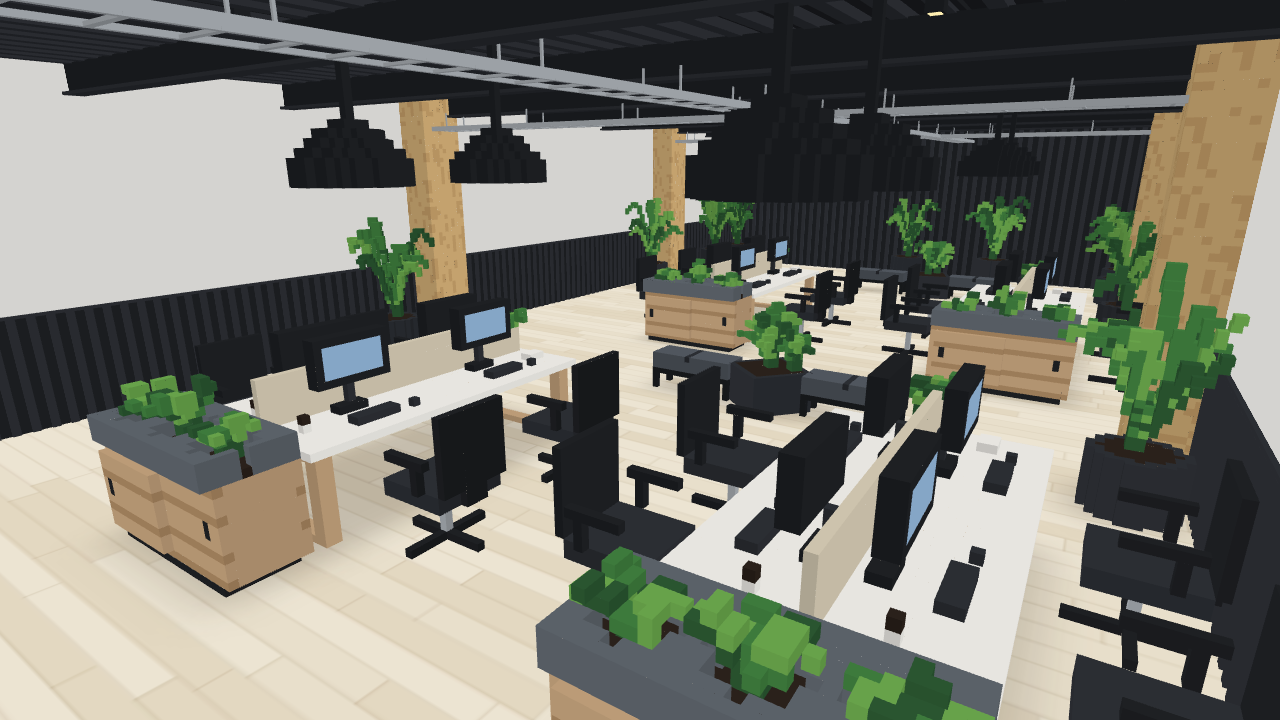
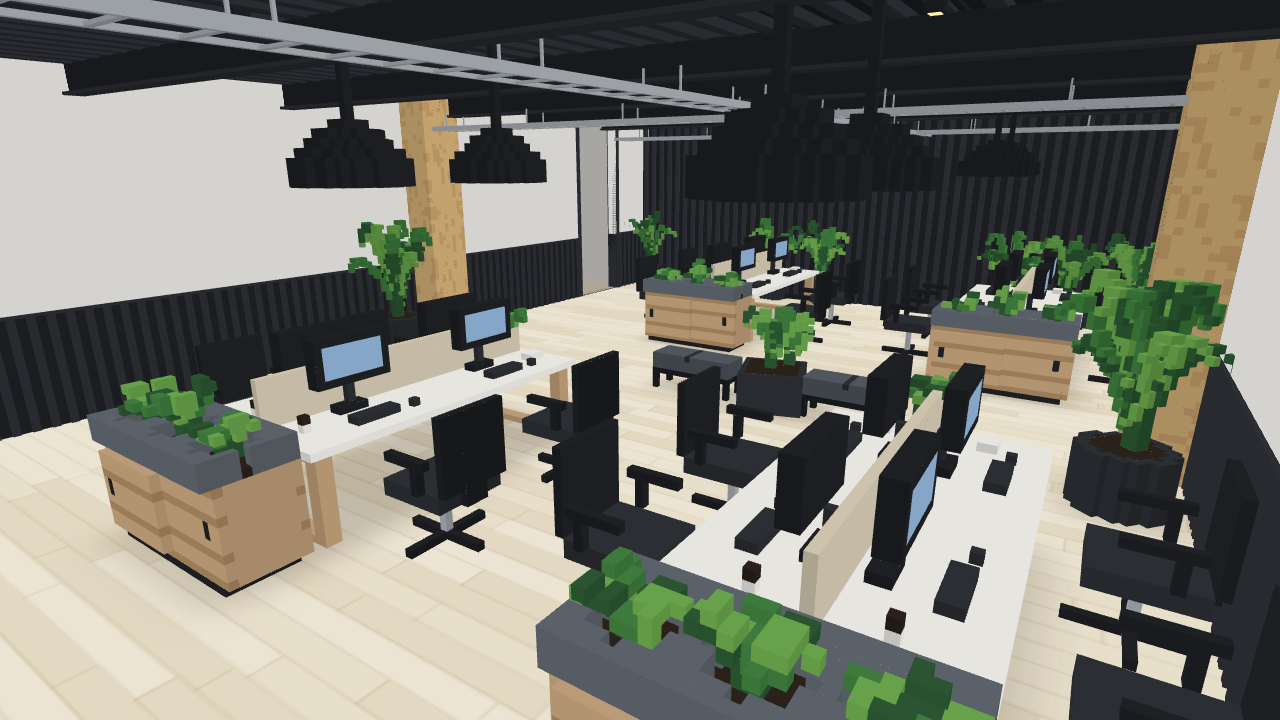
fix(office): pared del fondo pegada a las mesas, plantas detrás de las islas del fondo y hueco a otra sala en la pared izquierda
- Salón de 20 a 15,5 m: la pared acanalada queda 1,2 m detrás de las últimas mesas (paso de
  ~0,7 m para los de las sillas contra la pared derecha + plantitas pegadas a la pared).
- 2 plantas medianas detrás de cada isla del fondo; las del rincón del fondo un poco más chicas.
- Hueco de piso a techo (1,25 m, jambas y dintel) en la pared izquierda donde terminan las
  mesas, con un indicio en penumbra de la otra sala. SIDE_DOOR exportado; es solo visual.
- El segundo descanso del pasillo pasa entre la entrada y las primeras islas (siguen 8 lugares).
- Vistas de cámara y test de deslizamiento por la pared adaptados al salón más corto.

diff --git a/office/src/layout.ts b/office/src/layout.ts
@@ -33,13 +33,20 @@ const LEFT_ZC = RIGHT_ZC - DESK_DEPTH - DESK_GAP;   // -1,0: islas de la izquier
  * caminar entre los respaldos de las sillas del lado del pasillo (las sillas ocupan el resto de los 2,6 m).
  */
 export const ROOM = {
-  length: 20, width: 9.6, height: 3.6,
+  // largo: la pared acanalada queda 1,2 m detrás de las últimas mesas: plantitas contra la pared y ~0,75 m de paso detrás de la
+  // mesa (sin ese paso, los de las sillas contra la pared derecha quedarían encerrados)
+  length: 15.5, width: 9.6, height: 3.6,
   aisleZ: (RIGHT_ZC - DESK_DEPTH / 2 + LEFT_ZC + DESK_DEPTH / 2) / 2,
   aisleHalf: 0.45,
   deskGap: DESK_GAP,
 } as const;
 /** La puerta de entrada (pared x = 0): va de z = -DOOR.halfWidth a +halfWidth. `inX` = umbral de adentro, `outX` = afuera (ahí aparecen/desaparecen), `laneZ` = por dónde cruzan. */
 export const DOOR = { halfWidth: 1.0, inX: 0.45, outX: -0.5, laneZ: 0.55 } as const;
+/**
+ * Hueco de piso a techo en la pared IZQUIERDA (z = -width/2), donde terminan las mesas: separación hacia otra sala. Es solo visual:
+ * nadie sale por ahí (los personajes y el recorrido llegan como mucho al umbral, `inZ`). Va de x0 a x1, con jambas.
+ */
+export const SIDE_DOOR = { x0: 13.2, x1: 14.45, wallZ: -4.8, inZ: -4.8 + 0.45 } as const;
 /** Altura del asiento de las sillas y los bancos. */
 export const SEAT_HEIGHT = 0.46;
 /** Lo único que puede estar dentro de la franja del pasillo. */
@@ -49,8 +56,9 @@ const DESK_LEN = 2.8;      // largo de la isla (a lo largo del salón): 2 puesto
 const CHAIR_OFF = 0.55;    // del borde de la mesa al centro de la silla
 const ISLAND_X0 = [4.5, 11.5];
 const CAB_DEPTH = 0.6;     // mueble de plantas (a lo largo de x)
-const COLUMN_X = [2.6, 9.4, 16.2];
-const LOUNGE_X = [9.15, 17.2];
+const COLUMN_X = [2.6, 9.4];
+/** Descansos del pasillo: uno entre la entrada y las primeras islas, otro entre las dos filas de islas. */
+const LOUNGE_X = [2.2, 9.15];
 
 export interface OfficeLayout {
   room: typeof ROOM;
@@ -118,18 +126,24 @@ export function officeLayout(): OfficeLayout {
     }
   }
 
-  // Plantas medianas en las 4 esquinas, pegadas al rincón (no tapan columnas ni el fondo acanalado).
-  for (const x of [0.4, ROOM.length - 0.4]) for (const wall of [-1, 1]) {
-    props.push({ kind: 'plant', x, z: wall * (ROOM.width / 2 - 0.4), w: 0.6, d: 0.6, rot: 0, size: 0.8 });
+  // Plantas medianas en las 4 esquinas, pegadas al rincón (no tapan columnas, el fondo acanalado ni el hueco de la pared izquierda).
+  for (const wall of [-1, 1]) {
+    props.push({ kind: 'plant', x: 0.4, z: wall * (ROOM.width / 2 - 0.4), w: 0.6, d: 0.6, rot: 0, size: 0.8 });
+    // las del fondo, un poco más chicas: no tapan el paso de atrás de las mesas
+    props.push({ kind: 'plant', x: ROOM.length - 0.27, z: wall * (ROOM.width / 2 - 0.35), w: 0.5, d: 0.5, rot: 0, size: 0.6 });
+  }
+  // Plantas medianas en la franja de atrás de las islas del fondo, contra la pared acanalada (2 por isla).
+  // Van pegadas a la pared para dejar el paso entre la punta de la mesa y las macetas.
+  const backX = ROOM.length - 0.25;
+  for (const isl of islands.filter(i => i.x0 === ISLAND_X0[ISLAND_X0.length - 1])) {
+    for (const dz of [-0.45, 0.45]) props.push({ kind: 'plant', x: backX, z: isl.zc + dz, w: 0.4, d: 0.4, rot: 0, size: 0.5 });
   }
 
   // Muchas plantas: entre columnas, contra las paredes (fuera del pasillo).
-  const wallPlants: Array<[number, number]> = [[8.4, 0.75], [15.3, 0.8], [18.2, 0.8]];
+  const wallPlants: Array<[number, number]> = [[8.4, 0.75]];
   for (const [x, size] of wallPlants) for (const wall of [-1, 1]) {
     props.push({ kind: 'plant', x, z: wall * (ROOM.width / 2 - 0.45), w: 0.6, d: 0.6, rot: 0, size });
   }
-  // dos más en el centro del pasillo, al fondo, junto a la pared acanalada
-  props.push({ kind: 'plant', x: 19.4, z: ROOM.aisleZ - 0.9, w: 0.6, d: 0.6, rot: 0, size: 0.8 }, { kind: 'plant', x: 19.4, z: ROOM.aisleZ + 0.9, w: 0.6, d: 0.6, rot: 0, size: 0.9 });
 
   return { room: ROOM, islands, seats, extraSeats, props, lamps };
 }

diff --git a/office/src/room.ts b/office/src/room.ts
@@ -3,7 +3,7 @@
 // tiempo real) + el piso de madera clara mate aparte (textura con tablones). Total: 2 draw calls para todo el salón.
 import * as THREE from 'three';
 import { mergeGeometries } from 'three/examples/jsm/utils/BufferGeometryUtils.js';
-import { officeLayout, ROOM, type OfficeLayout, type Seat } from './layout';
+import { officeLayout, ROOM, SIDE_DOOR, type OfficeLayout, type Seat } from './layout';
 import { hash3 } from '../vendor/kit3d';
 import {
   PAL, benchGeometry, cabinetGeometry, chairGeometry, columnGeometry, deskGeometry, lampGeometry, planterGeometry,
@@ -60,14 +60,34 @@ function shellParts(L: OfficeLayout): THREE.BufferGeometry[] {
   const out: THREE.BufferGeometry[] = [];
   const add = (...a: Parameters<typeof boxGeo>) => out.push(boxGeo(...a));
 
-  // paredes laterales: blancas arriba, zócalo negro acanalado abajo
+  // paredes laterales: blancas arriba, zócalo negro acanalado abajo. La izquierda (z < 0) tiene el hueco a la otra sala.
+  const gaps = (s: number): Array<[number, number]> => s < 0 ? [[0, SIDE_DOOR.x0], [SIDE_DOOR.x1, X]] : [[0, X]];
   for (const s of [-1, 1]) {
     const z0 = s < 0 ? -hw - T : hw, z1 = s < 0 ? -hw : hw + T;
-    add(0, ZOC, z0, X, H, z1, PAL.wall, { shade: FLAT });
-    add(0, 0, z0, X, ZOC, z1, PAL.black, { shade: FLAT });
     const zi = s < 0 ? -hw : hw - 0.03;
-    for (let x = 0.1; x < X; x += 0.16) add(x, 0, zi, x + 0.07, ZOC, zi + 0.03, PAL.black2, { shade: FLAT });
-    add(0, ZOC, zi, X, ZOC + 0.03, zi + 0.03, PAL.black2, { shade: FLAT });
+    for (const [a, b] of gaps(s)) {
+      add(a, ZOC, z0, b, H, z1, PAL.wall, { shade: FLAT });
+      add(a, 0, z0, b, ZOC, z1, PAL.black, { shade: FLAT });
+      for (let x = a + 0.1; x < b - 0.07; x += 0.16) add(x, 0, zi, x + 0.07, ZOC, zi + 0.03, PAL.black2, { shade: FLAT });
+      add(a, ZOC, zi, b, ZOC + 0.03, zi + 0.03, PAL.black2, { shade: FLAT });
+    }
+  }
+  // hueco de piso a techo en la pared izquierda: jambas y dintel de chapa negra
+  {
+    const { x0, x1 } = SIDE_DOOR, zw = -hw;
+    add(x0 - 0.06, 0, zw - T - 0.02, x0, H, zw + 0.04, PAL.black2, { shade: FLAT });
+    add(x1, 0, zw - T - 0.02, x1 + 0.06, H, zw + 0.04, PAL.black2, { shade: FLAT });
+    add(x0 - 0.06, H - 0.12, zw - T - 0.02, x1 + 0.06, H, zw + 0.04, PAL.black2, { shade: FLAT });
+    // indicio de la otra sala: piso, paredes y techo más tenues (no se modela la sala entera)
+    const DIM = [0.55, 0.5, 0.62, 0.3, 0.55, 0.5];
+    const ox0 = x0 - 1.4, ox1 = x1 + 0.6, oz0 = zw - T - 2.6, oz1 = zw - T;
+    add(ox0, -0.05, oz0, ox1, 0, oz1, 0xd9cfba, { shade: DIM });                 // piso de madera en penumbra
+    add(ox0, 0, oz0 - T, ox1, H, oz0, PAL.wall, { shade: DIM });                 // pared de enfrente
+    add(ox0 - T, 0, oz0, ox0, H, oz1, PAL.wall, { shade: DIM });
+    add(ox1, 0, oz0, ox1 + T, H, oz1, PAL.wall, { shade: DIM });
+    add(ox0, 0, oz0, ox1, 0.12, oz0 + 0.03, PAL.black, { shade: DIM });         // zócalo
+    add(ox0 - T, H, oz0 - T, ox1 + T, H + 0.1, oz1, PAL.black, { shade: DIM });  // techo
+    add(x0 + 0.1, 0, oz0 + 0.03, x1 - 0.1, 0.9, oz0 + 0.5, PAL.wood, { shade: DIM });   // un mueble bajo al fondo
   }
   // pared de entrada (blanca con zócalo y una puerta de vidrio oscuro)
   add(-T, ZOC, -hw, 0, H, hw, PAL.wall, { shade: FLAT });
@@ -94,7 +114,7 @@ function shellParts(L: OfficeLayout): THREE.BufferGeometry[] {
     for (let u = a0 + 0.6; u < a1; u += 1.5) for (const v of [c - 0.17, c + 0.15]) b(u, TY + 0.06, v, u + 0.015, H - 0.32, v + 0.015);
   };
   tray(true, 0.2, X - 0.2, ROOM.aisleZ);   // bandeja principal sobre el pasillo
-  for (const x of [2.6, 9.4, 16.2]) tray(false, -hw + 0.2, hw - 0.2, x);
+  for (const x of [2.6, 9.4, X - 1.2]) tray(false, -hw + 0.2, hw - 0.2, x);
   // cables negros sobre la bandeja central
   add(0.2, TY + 0.015, ROOM.aisleZ - 0.08, X - 0.2, TY + 0.05, ROOM.aisleZ + 0.02, PAL.black2);
   // spots sobre dos rieles a lo largo del salón

diff --git a/office/src/layout.test.ts b/office/src/layout.test.ts
@@ -1,5 +1,5 @@
 import { describe, expect, it } from 'vitest';
-import { officeLayout, ROOM, AISLE_PROP_KINDS, type Prop } from './layout';
+import { officeLayout, ROOM, AISLE_PROP_KINDS, SIDE_DOOR, type Prop } from './layout';
 
 const L = officeLayout();
 const all = [...L.seats, ...L.extraSeats];
@@ -104,6 +104,41 @@ describe('layout de la oficina', () => {
       const near = L.props.filter(p => p.kind === 'plant' && Math.abs(p.x - cx) < 0.6 && Math.abs(p.z - sz * ROOM.width / 2) < 0.6);
       expect(near, `esquina ${cx},${sz}`).toHaveLength(1);
     }
+  });
+
+  it('back_wall_is_right_behind_the_last_desks', () => {
+    // como en las fotos: terminada la última isla, la pared acanalada está ahí. Franja de ≤ 1,25 m: plantitas contra la pared y
+    // un paso de ≥ 0,65 m entre la punta de la mesa y las macetas (por ahí salen los de las sillas contra la pared derecha)
+    const lastDesk = Math.max(...L.props.filter(p => p.kind === 'desk').map(p => p.x + p.w / 2));
+    expect(ROOM.length - lastDesk).toBeLessThanOrEqual(1.25);
+    const backPlants = L.props.filter(p => p.kind === 'plant' && p.x > lastDesk);
+    for (const p of backPlants) expect(p.x - p.w / 2 - lastDesk).toBeGreaterThanOrEqual(0.65);
+    // y nada queda fuera del salón
+    for (const p of L.props) expect(p.x + p.w / 2, p.kind).toBeLessThanOrEqual(ROOM.length + 1e-9);
+  });
+
+  it('plants_behind_the_back_islands', () => {
+    const back = L.islands.filter(i => i.x1 === Math.max(...L.islands.map(j => j.x1)));
+    expect(back).toHaveLength(2);
+    for (const isl of back) {
+      const behind = L.props.filter(p => p.kind === 'plant' && p.x > isl.x1 && Math.abs(p.z - isl.zc) <= isl.depth / 2);
+      expect(behind.length, `isla ${isl.id}`).toBeGreaterThanOrEqual(2);
+      for (const p of behind) expect(p.size ?? 1).toBeLessThanOrEqual(0.7);    // medianas, no grandes
+    }
+  });
+
+  it('side_door_on_left_wall_where_the_desks_end', () => {
+    const w = SIDE_DOOR.x1 - SIDE_DOOR.x0;
+    expect(w).toBeGreaterThanOrEqual(1.2);
+    expect(w).toBeLessThanOrEqual(1.5);
+    expect(SIDE_DOOR.wallZ).toBe(-ROOM.width / 2);
+    expect(SIDE_DOOR.x1).toBeLessThan(ROOM.length);
+    // empieza donde terminan las sillas de la izquierda
+    const leftChairs = L.props.filter(p => p.kind === 'chair' && p.z < ROOM.aisleZ);
+    expect(SIDE_DOOR.x0).toBeGreaterThanOrEqual(Math.max(...leftChairs.map(p => p.x)) - 0.6);
+    // y la pasada no está tapada: nada dentro de 0,8 m de la pared frente al hueco
+    const blocking = L.props.filter(p => p.x + p.w / 2 > SIDE_DOOR.x0 && p.x - p.w / 2 < SIDE_DOOR.x1 && p.z - p.d / 2 < SIDE_DOOR.wallZ + 0.8);
+    expect(blocking).toEqual([]);
   });
 
   it('seats_face_their_desk', () => {

diff --git a/office/src/camera.ts b/office/src/camera.ts
@@ -6,10 +6,10 @@ import { ROOM } from './layout';
 
 /** Vistas guardadas (posición y foco). `entrada` = como las fotos: desde la puerta mirando al fondo. */
 export const CAMERA_PRESETS = {
-  entrada: { pos: [0.4, 1.9, ROOM.aisleZ], target: [10, 0.9, ROOM.aisleZ] },
+  entrada: { pos: [0.3, 2.45, ROOM.aisleZ + 0.9], target: [ROOM.length / 2 + 2, 0.5, ROOM.aisleZ] },
   isla: { pos: [2.2, 2.6, 3.9], target: [7.5, 0.8, 0.4] },
-  fondo: { pos: [19.3, 2.9, -3.6], target: [10, 0.6, ROOM.aisleZ] },
-  alto: { pos: [0.5, 2.85, ROOM.aisleZ - 2.3], target: [9, 0, ROOM.aisleZ + 0.3] },
+  fondo: { pos: [ROOM.length - 0.4, 2.1, 3.9], target: [ROOM.length / 2 - 1, 0.8, -2.2] },
+  alto: { pos: [0.5, 2.85, ROOM.aisleZ - 2.3], target: [ROOM.length * 0.55, 0, ROOM.aisleZ + 0.3] },
 } as const satisfies Record<string, { pos: readonly number[]; target: readonly number[] }>;
 export type CameraPreset = keyof typeof CAMERA_PRESETS;
 

diff --git a/office/src/walk.test.ts b/office/src/walk.test.ts
@@ -45,7 +45,7 @@ describe('modo recorrido (primera persona)', () => {
 
   it('slides_along_wall', () => {
     // pegado a la pared de fondo, empujando en diagonal: no la atraviesa pero avanza de costado
-    const s0: PlayerState = { x: ROOM.length - 1, z: -2.6, yaw: yawTo(1, 1), pitch: 0 };
+    const s0: PlayerState = { x: ROOM.length - 1, z: -3.4, yaw: yawTo(1, 1), pitch: 0 };   // entre la planta del rincón y las del fondo
     expect(playerFree(s0, world)).toBe(true);
     const s = walk(s0, input({ forward: 1 }), 1.5);
     expect(s.x).toBeLessThanOrEqual(ROOM.length - PLAYER_RADIUS + 1e-9);
